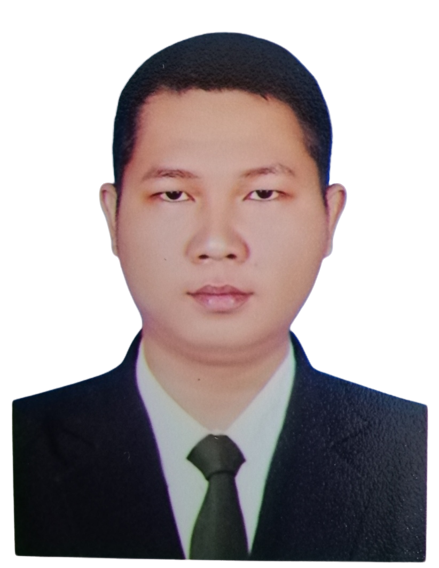
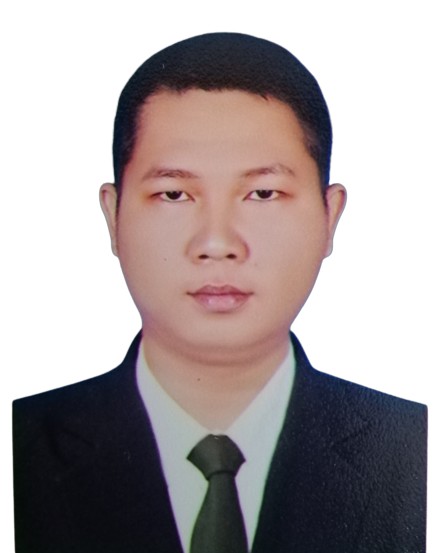
6-nov

diff --git a/css/style.css b/css/style.css
@@ -6,7 +6,7 @@ body {
 .hire-me {
     background-color: aquamarine;
     border-bottom: 10px solid transparent;
-    height: 30px;
+    height: 60px;
     padding-top: 7px;
     padding-bottom: 10px;
     font-size: 12px;
@@ -569,7 +569,7 @@ h6 {
 }
 
 #contact-container ul li {
-    font-size: 12px;
+    font-size: 16px;
 }
 
 @media (min-width:1000px) {
@@ -649,7 +649,7 @@ h6 {
     text-align: center;
     color: #aaa;
     text-transform: uppercase;
-    font-size: 15px;
+    font-size: 14px;
     cursor: pointer;
     font-weight: 700;
     transition: all ease 0.2s;
@@ -807,7 +807,7 @@ footer a:hover {
     --primary-color-dark: #9333ea;
     --secondary-color: #ca8a04;
     --text-dark: #1f2937;
-    --text-light: #6b7280;
+    --text-light: firebrick;
     --extra-light: #faf5ff;
     --max-width: 1200px;
 }
@@ -831,6 +831,8 @@ nav {
     left: 0;
     background-color: #ffffff;
     z-index: 99;
+    border-top: 7px solid firebrick;
+    border-bottom: 1px solid black;
 }
 
 .nav__content {
@@ -847,9 +849,7 @@ nav .logo a {
     font-weight: 600;
     color: var(--primary-color);
     transition: 0.3s;
-    font-family: 'Courgette', cursive;
     font-family: 'Lobster', sans-serif;
-    font-family: 'Rubik', sans-serif;
 }
 
 nav .logo a:hover {
@@ -879,7 +879,7 @@ nav .checkbox i {
 }
 
 .nav__content ul li a {
-    padding: 0.5rem 1rem;
+    padding: 4px;
     border: 2px solid transparent;
     text-decoration: none;
     font-weight: 600;
@@ -892,7 +892,7 @@ ul li a:hover {
 }
 
 .section {
-    background-color: var(--extra-light);
+    background-color: none;
 }
 
 .section__container {
@@ -914,12 +914,12 @@ ul li a:hover {
 .subtitle {
     letter-spacing: 2px;
     color: var(--text-light);
-    font-weight: 600;
+    font-weight: 700;
     margin-bottom: 0.5rem;
 }
 
 .title {
-    font-size: 2.5rem;
+    font-size: 2rem;
     font-weight: 400;
     line-height: 3rem;
     color: var(--text-dark);
@@ -966,6 +966,7 @@ ul li a:hover {
 .download {
     color: var(--primary-color);
     text-decoration: none;
+    font-weight: 700;
 }
 
 .download:hover {
@@ -980,7 +981,8 @@ ul li a:hover {
 
 .image img {
     width: min(25rem, 90%);
-    border-radius: 100%;
+    border-radius: 70%;
+    border: 1px solid black;
 }
 
 @media (width < 1000px) {
@@ -993,7 +995,7 @@ ul li a:hover {
         width: 100%;
         height: calc(120vh - 100px);
         left: -100%;
-        top: 85px;
+        top: 97px;
         background-color: var(--extra-light);
         flex-direction: column;
         justify-content: center;
@@ -1020,5 +1022,13 @@ ul li a:hover {
 
     .action__btns {
         margin: auto;
+    }
+
+    .download {
+        font-size: 10px;
+    }
+
+    .hire__me {
+        font-size: 10px;
     }
 }

diff --git a/education.html b/education.html
@@ -191,25 +191,25 @@
                     <!-- Show High School Certificate -->
                     <div class="row row-cols-1 row-cols-md-2 g-4">
                         <div class="col thumbnail-container" style="margin-bottom: 120px;">
-                            <div class="card h-100" style="padding: 30px;margin-left:120px; margin-right: 120px;">
+                            <div class="card h-100" style="padding: 30px;margin-left:20px; margin-right: 20px;">
                                 <img src="images/graduate-high-school.jpg" class="card-img-top highschool" alt="..."
-                                    style="border:1px solid black; height: 610px;">
+                                    style="border:1px solid black; height: 710px;">
                                 <div class="card-body">
                                     <h5 class="card-title" style="color: firebrick; text-align: center;">Matriculation
                                         Certificate</h5>
-                                    <p class="card-text" style="text-align: justify;">I passed the matriculation exam
+                                    <p class="card-text" style="text-align: center;">I passed the matriculation exam
                                         in March 2009.</p>
                                 </div>
                             </div>
                         </div>
                         <div class="col thumbnail-container" style="margin-bottom: 120px;">
-                            <div class="card h-100" style="padding: 30px; margin-left:120px; margin-right: 120px;">
+                            <div class="card h-100" style="padding: 30px; margin-left:20px; margin-right: 20px;">
                                 <img src="images/score-of-high-school.jpg" class="card-img-top scorehighschool"
-                                    alt="..." style="border: 1px solid black; height: 610px;">
+                                    alt="..." style="border: 1px solid black; height: 710px;">
                                 <div class="card-body">
                                     <h5 class="card-title" style="color: firebrick; text-align: center;">Matriculation
                                         Score Sheet</h5>
-                                    <p class="card-text" style="text-align: justify;">List of marks obtained in
+                                    <p class="card-text" style="text-align: center;">List of marks obtained in
                                         university
                                         entrance examination.</p>
                                 </div>

diff --git a/index.html b/index.html
@@ -65,12 +65,13 @@
             <div class="col-md-12">
 
                 <!--HEADER Navigation  -->
+                <div class="hire-me">
+                    <p>This Portfolio is designed for employment opportunities.
+                    </p>
+                </div>
 
                 <header class="header">
-                    <div class="hire-me">
-                        <p>This Portfolio is designed for employment opportunities.
-                        </p>
-                    </div>
+
                     <!-- New Add Nav -->
                     <nav>
                         <div class="nav__content">
@@ -114,7 +115,7 @@
                                 </div>
                             </div>
                             <div class="image">
-                                <img src="images/YEKYAWTUN-Photo.jpg" alt="profile" />
+                                <img src="images/profie.png" alt="profile" />
                             </div>
                         </div>
                     </section>
@@ -532,7 +533,7 @@
                                                 </li>
                                                 <li> <i class="fa-brands fa-product-hunt fa-xl"></i> &ensp; <a
                                                         href="https://ye-kyaw-tun.github.io/2023/"
-                                                        target="_blank">https://ye-kyaw-tun.github.io/2023</a></li>
+                                                        target="_blank">ye-kyaw-tun.github.io/2023</a></li>
                                             </ul>
                                         </div>
                                     </div>

diff --git a/B.E-Mechanical.html b/B.E-Mechanical.html
@@ -37,9 +37,9 @@
                 <!-- Show B.E Certificate -->
                 <div class="row row-cols-1 row-cols-md-1 g-4" style="margin-bottom: 40px;">
                     <div class="col thumbnail-container">
-                        <div class="card h-100" style="padding: 80px;">
+                        <div class="card h-100" style="padding: 10px;">
                             <img src="images/B.E (Mechanical).jpg" class="card-img-top becertificate" alt="..."
-                                style="border:1px solid black; height: 650px;width: 500px;margin: 0 auto;">
+                                style="border:1px solid black;margin: 0 auto;">
                         </div>
                     </div>
                 </div>

diff --git a/electrical-equipment-control.html b/electrical-equipment-control.html
@@ -35,10 +35,9 @@
 
                 <h4>Electrical Equipment Control Training</h4>
 
-                <div class="card mb-3"
-                    style="max-width: 1700px;padding: 40px;padding-left: 100px;padding-right: 100px;">
+                <div class="card mb-3" style="max-width: 1700px;padding: 10px;">
                     <div class="row g-0">
-                        <div class="col-md-6" style="padding: 20px;">
+                        <div class="col-md-6" style="padding: 10px;">
                             <img src="images/Electrical-Equipment-Control.jpg" class="img-fluid rounded-start"
                                 alt="Electrical-equipment-control-Certificate">
                         </div>

diff --git a/osha-RM.html b/osha-RM.html
@@ -36,9 +36,9 @@
 
                 <h4>Occupational Safety and Health Risk Management Certificate</h4>
 
-                <div class="card mb-3" style="max-width: 1700px;padding: 40px;">
+                <div class="card mb-3" style="max-width: 1700px;padding:10px;">
                     <div class="row g-0">
-                        <div class="col-md-6" style="padding: 20px;">
+                        <div class="col-md-6" style="padding: 10px;">
                             <img src="images/ye_kyaw_tun_RM.jpg" class="img-fluid rounded-start"
                                 alt="Occupational-RM-Certificate" style="border: 1px solid black;">
                         </div>

diff --git a/M-E_working_drawing_training.html b/M-E_working_drawing_training.html
@@ -35,9 +35,9 @@
 
                 <h4>Mechanical and Electrical Working Drawing Training Certificate</h4>
 
-                <div class="card mb-3" style="max-width: 1700px;padding: 40px;padding-left: 40px;">
+                <div class="card mb-3" style="max-width: 1700px;padding: 10px;">
                     <div class="row g-0">
-                        <div class="col-md-6" style="padding: 20px;">
+                        <div class="col-md-6" style="padding: 10px;">
                             <img src="images/photo_2023-10-14_18-41-57.jpg" class="img-fluid rounded-start" alt="...">
                         </div>
                         <div class="col-md-6">

diff --git a/osha-professional.html b/osha-professional.html
@@ -36,9 +36,9 @@
 
                 <h4>Certificate of Occupational Safety and Health Professional</h4>
 
-                <div class="card mb-3" style="max-width: 1700px;padding: 40px;">
+                <div class="card mb-3" style="max-width: 1700px;padding: 10px;">
                     <div class="row g-0">
-                        <div class="col-md-6" style="padding: 20px;">
+                        <div class="col-md-6" style="padding: 10px;">
                             <img src="images/osha_professional.jpg" class="img-fluid rounded-start"
                                 alt="OSHAcademy-Professional-Certificate">
                         </div>

diff --git a/osha-specialist.html b/osha-specialist.html
@@ -35,9 +35,9 @@
 
                 <h4>Occupational Safety and Health Specialist Training Certificate</h4>
 
-                <div class="card mb-3" style="max-width: 1700px;padding: 40px;">
+                <div class="card mb-3" style="max-width: 1700px;padding: 10px;">
                     <div class="row g-0">
-                        <div class="col-md-6" style="padding: 20px;">
+                        <div class="col-md-6" style="padding: 10px;">
                             <img src="images/Specialist.jpg" class="img-fluid rounded-start"
                                 alt="OSHAcademy-Specialist-Certificate">
                         </div>

diff --git a/internal-audit-training.html b/internal-audit-training.html
@@ -36,9 +36,9 @@
 
                 <h4>Internal Audit Training Certificate</h4>
 
-                <div class="card mb-3" style="max-width: 1700px;padding: 40px;">
+                <div class="card mb-3" style="max-width: 1700px;padding: 10px;">
                     <div class="row g-0">
-                        <div class="col-md-6" style="padding: 20px;">
+                        <div class="col-md-6" style="padding: 10px;">
                             <img src="images/Internal-Auditing.jpg" class="img-fluid rounded-start"
                                 alt="OSHAcademy-Professional-Certificate">
                         </div>
